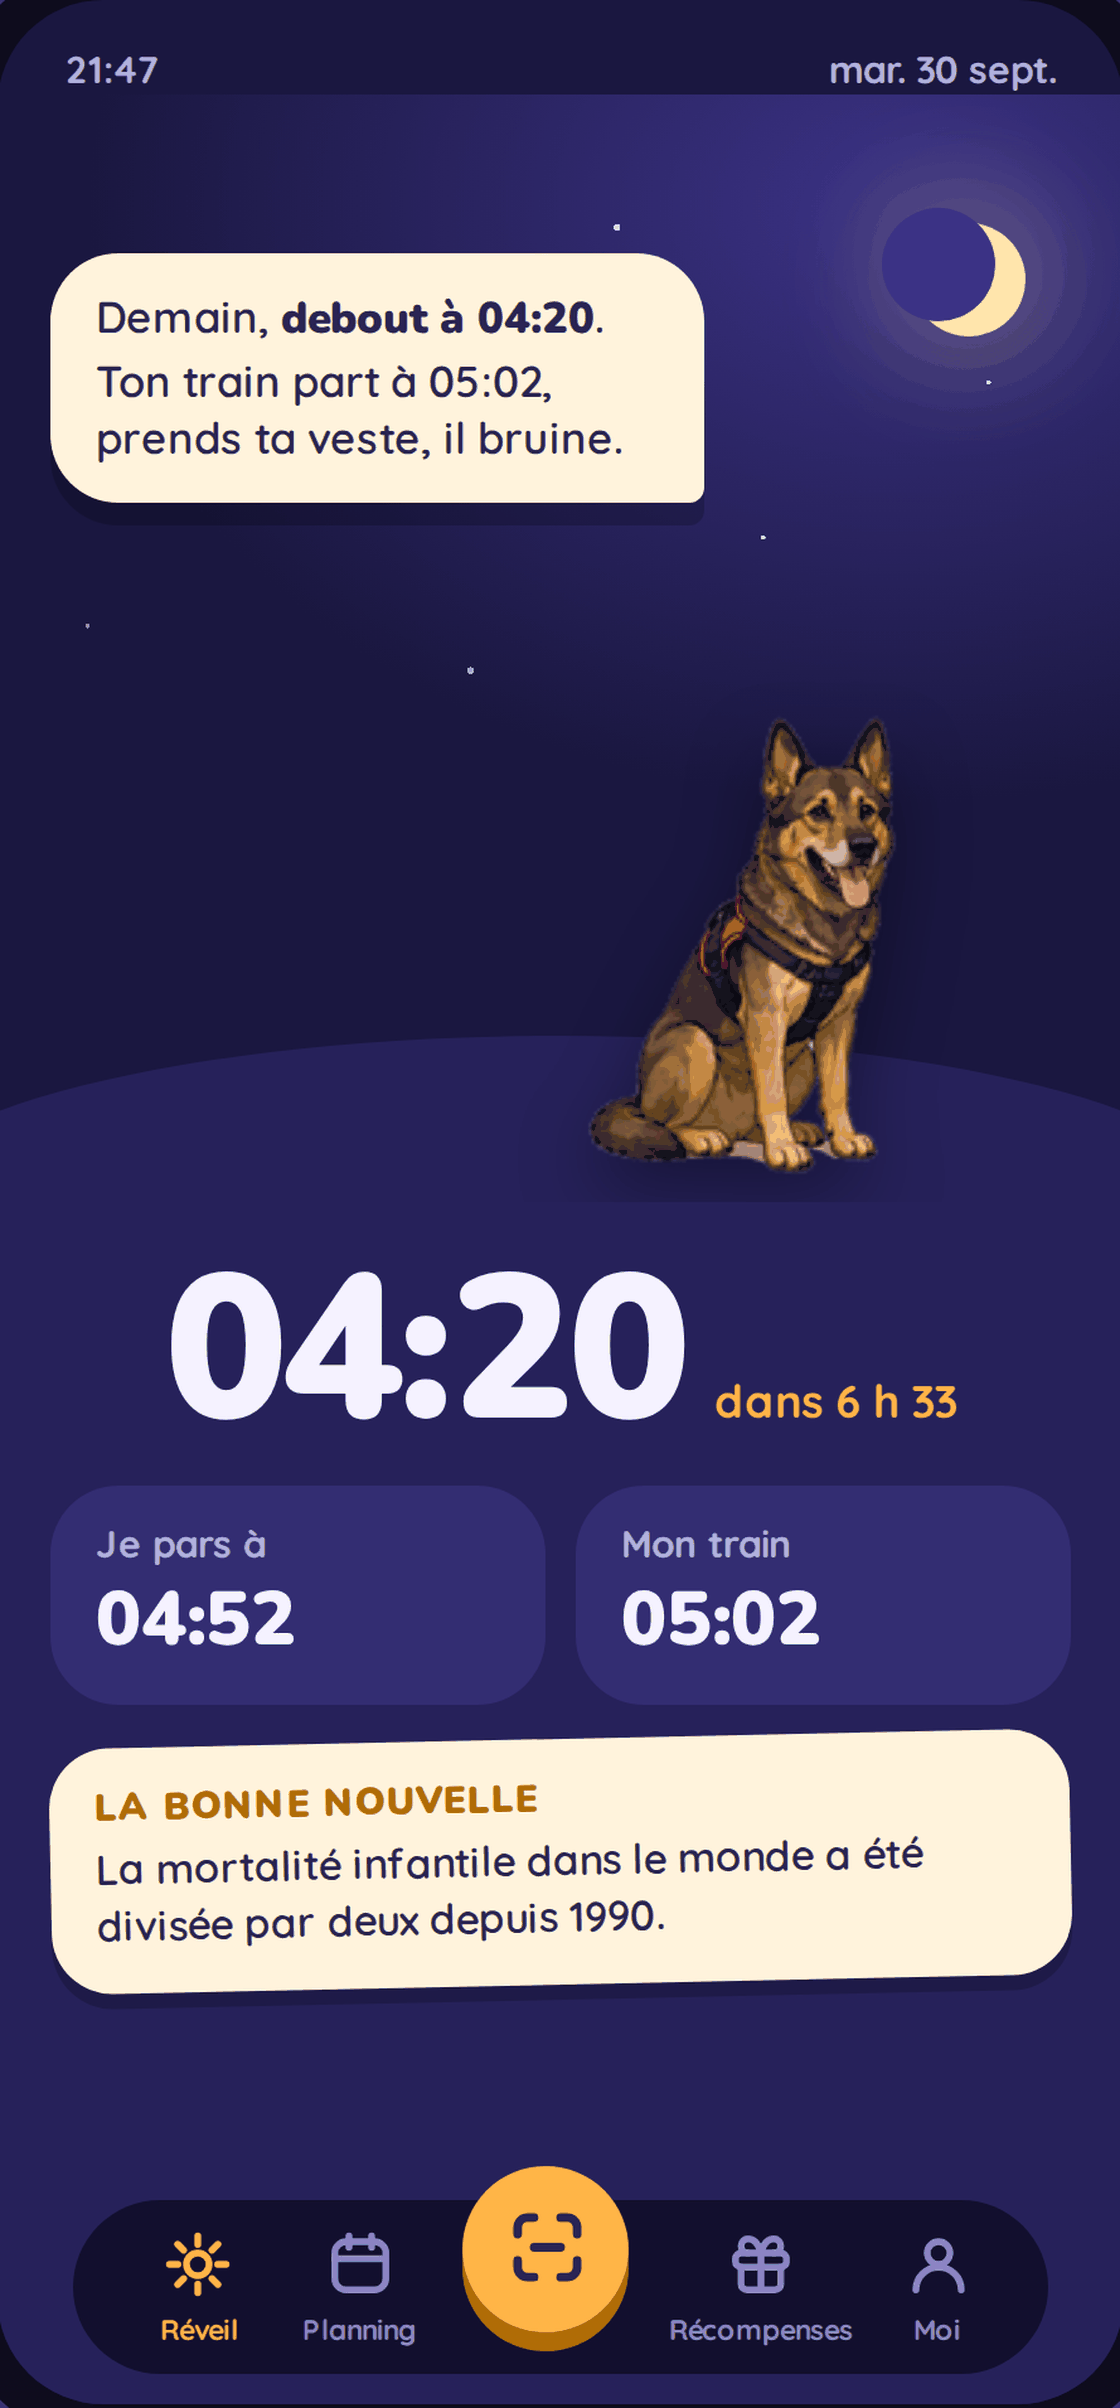
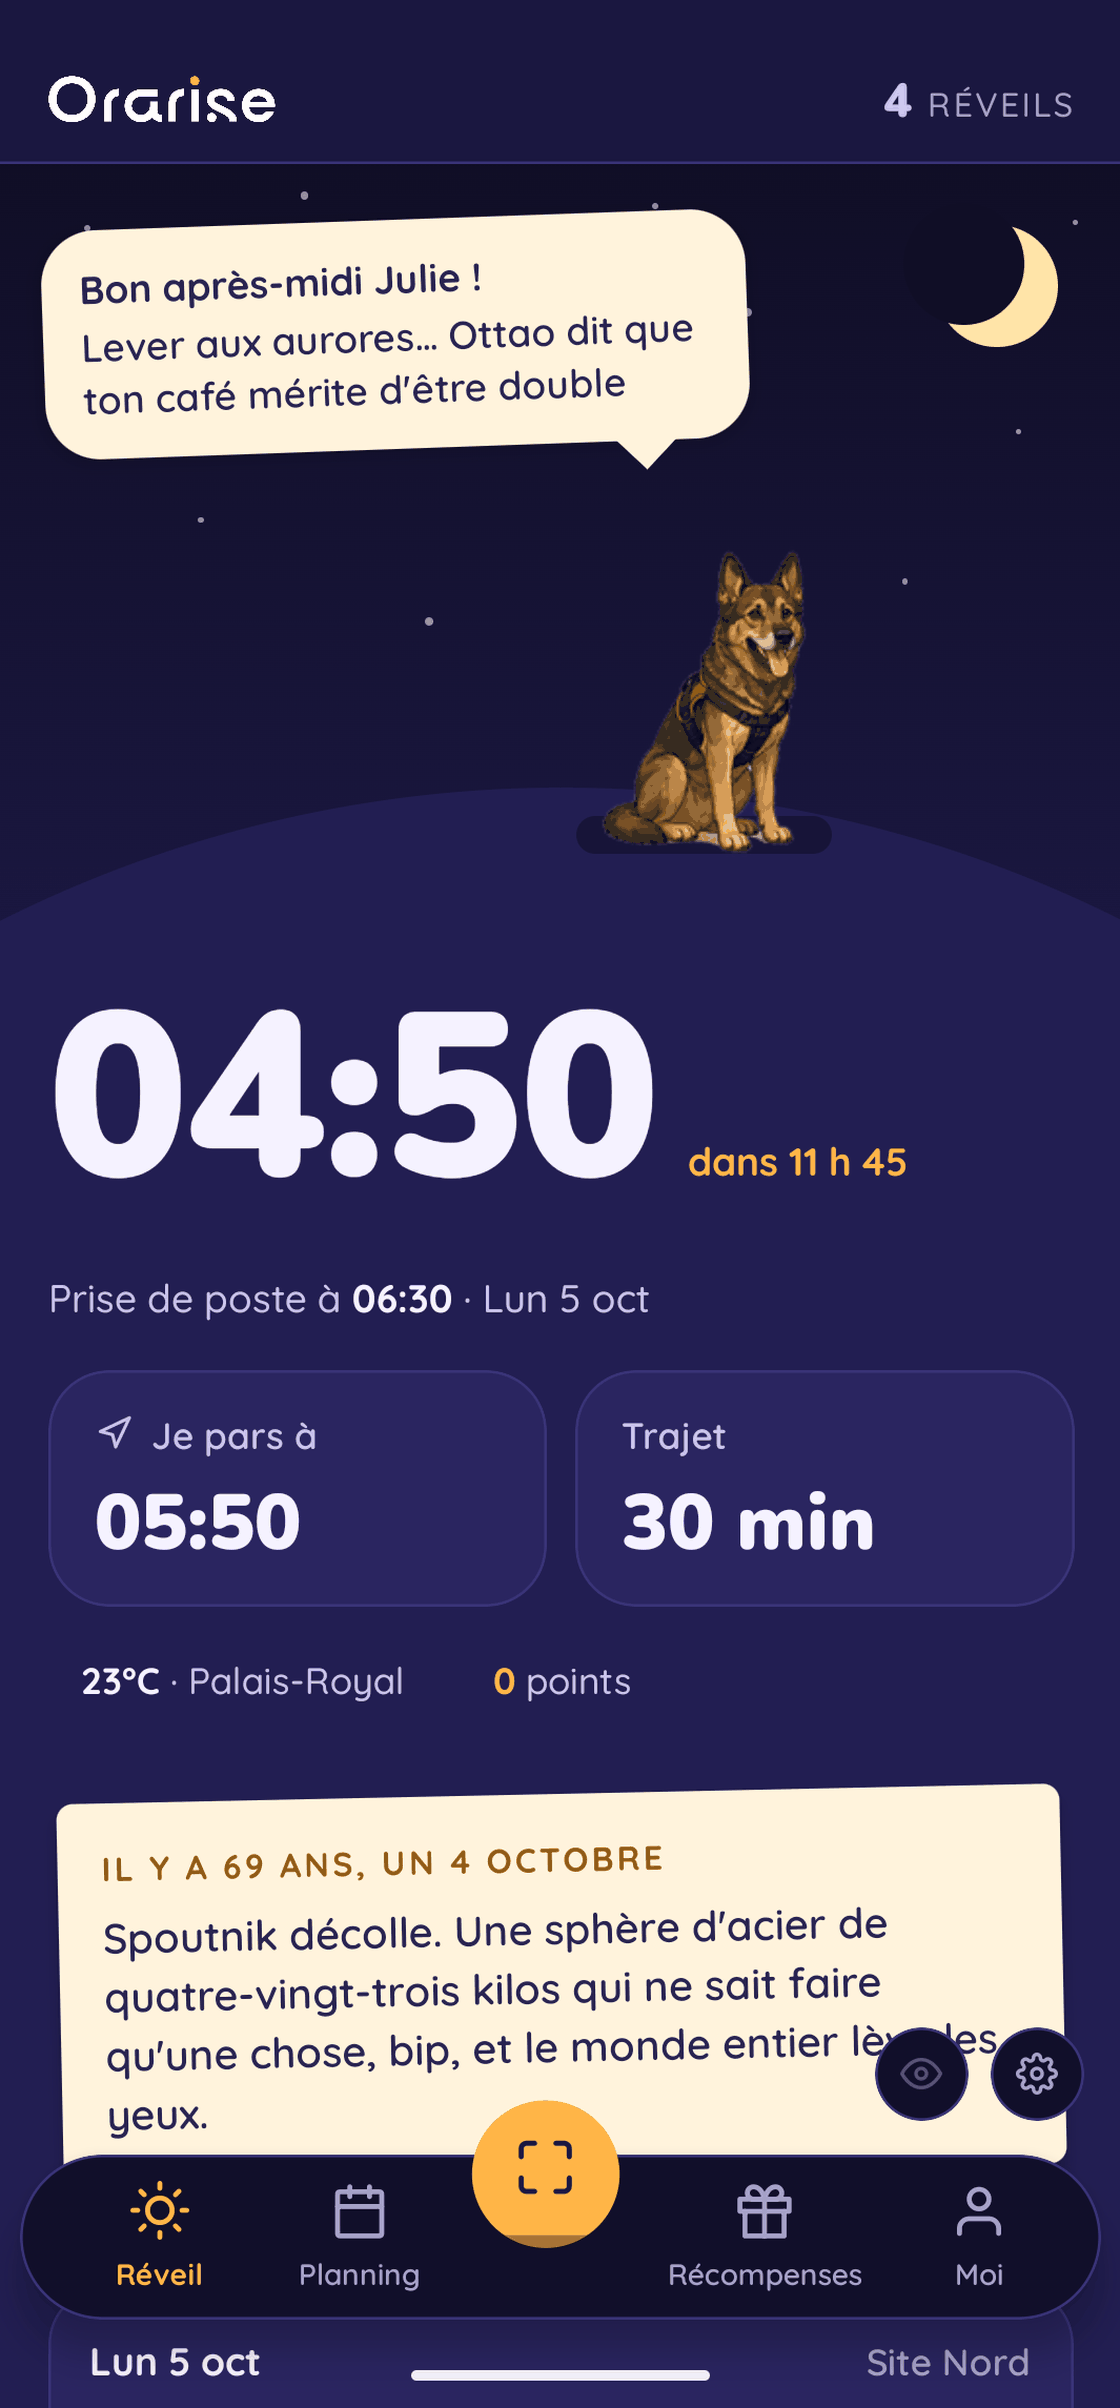
Vraies captures de la nouvelle DA

diff --git a/index.html b/index.html
@@ -377,7 +377,7 @@
     <div class="phone">
       <div class="phone-screen">
         <img src="orarise-accueil.png" width="560" height="1204"
-             alt="L'onglet Réveil d'Orarise : le compagnon assis sur sa planète annonce le réveil à 04:20 et le train de 05:02 ; dessous, l'heure de départ et le train.">
+             alt="L'onglet Réveil d'Orarise : le compagnon assis sur sa planète salue dans sa bulle ; dessous, le réveil à 04:50, la prise de poste, l'heure de départ et le trajet.">
       </div>
     </div>
   </div>
@@ -427,7 +427,7 @@
     <div class="vues">
       <div class="vue">
         <img src="orarise-scan.png" width="520" height="1118" loading="lazy"
-             alt="L'écran Scanner : le compagnon demande une photo du planning ; on peut aussi choisir une image ou importer depuis son agenda.">
+             alt="L'écran Scanner : le compagnon demande une photo du planning ; on peut aussi choisir une image existante ou importer depuis son agenda.">
         <h4>Il lit ton planning</h4>
         <p>Une photo suffit. Les nuits sont datées au jour de la prise de poste, pas au lendemain.</p>
       </div>
@@ -438,10 +438,10 @@
         <p>La route du moment, la météo à l'arrivée, l'heure à laquelle partir. Rien à calculer.</p>
       </div>
       <div class="vue">
-        <img src="orarise-planning.png" width="520" height="1118" loading="lazy"
-             alt="Le planning : la semaine en pastilles colorées, les postes en tickets avec leur heure de réveil, un rendez-vous et un jour de repos.">
-        <h4>Il range ta semaine</h4>
-        <p>Matin, soir, nuit, rendez-vous, repos : tout d'un coup d'œil, et tes heures du mois à côté.</p>
+        <img src="orarise-heures.png" width="520" height="1118" loading="lazy"
+             alt="Le relevé d'heures du mois : total travaillé, dont heures de nuit, dont dimanche, dont jour férié.">
+        <h4>Il compte tes heures</h4>
+        <p>Nuit, dimanche, jour férié — de quoi relire ton bulletin de paie et poser une question.</p>
       </div>
     </div>
   </div>
@@ -534,9 +534,10 @@
 <!-- À VENIR
      3 OCTOBRE 2026 : la carte train/bus est passée dans « Bien plus qu'un
      simple réveil », avec l'agenda et le widget (construits, dans la version 18).
-     Les captures du haut et des trois vues sont tirées des maquettes de la
-     nouvelle DA, fidèles à l'application : à remplacer par de vraies captures
-     d'un APK release quand elles seront faites. -->
+     7 OCTOBRE 2026 : l'accueil, le scan et le relevé d'heures sont de VRAIES
+     captures (APK release, émulateur, données fictives « Julie »). Seul
+     l'écran de réveil (orarise-reveil.png) vient encore de la maquette :
+     à remplacer par une vraie capture de l'écran qui sonne. -->
 <section style="padding-top:20px">
   <div class="wrap">
     <div class="sec-label">La suite</div>
